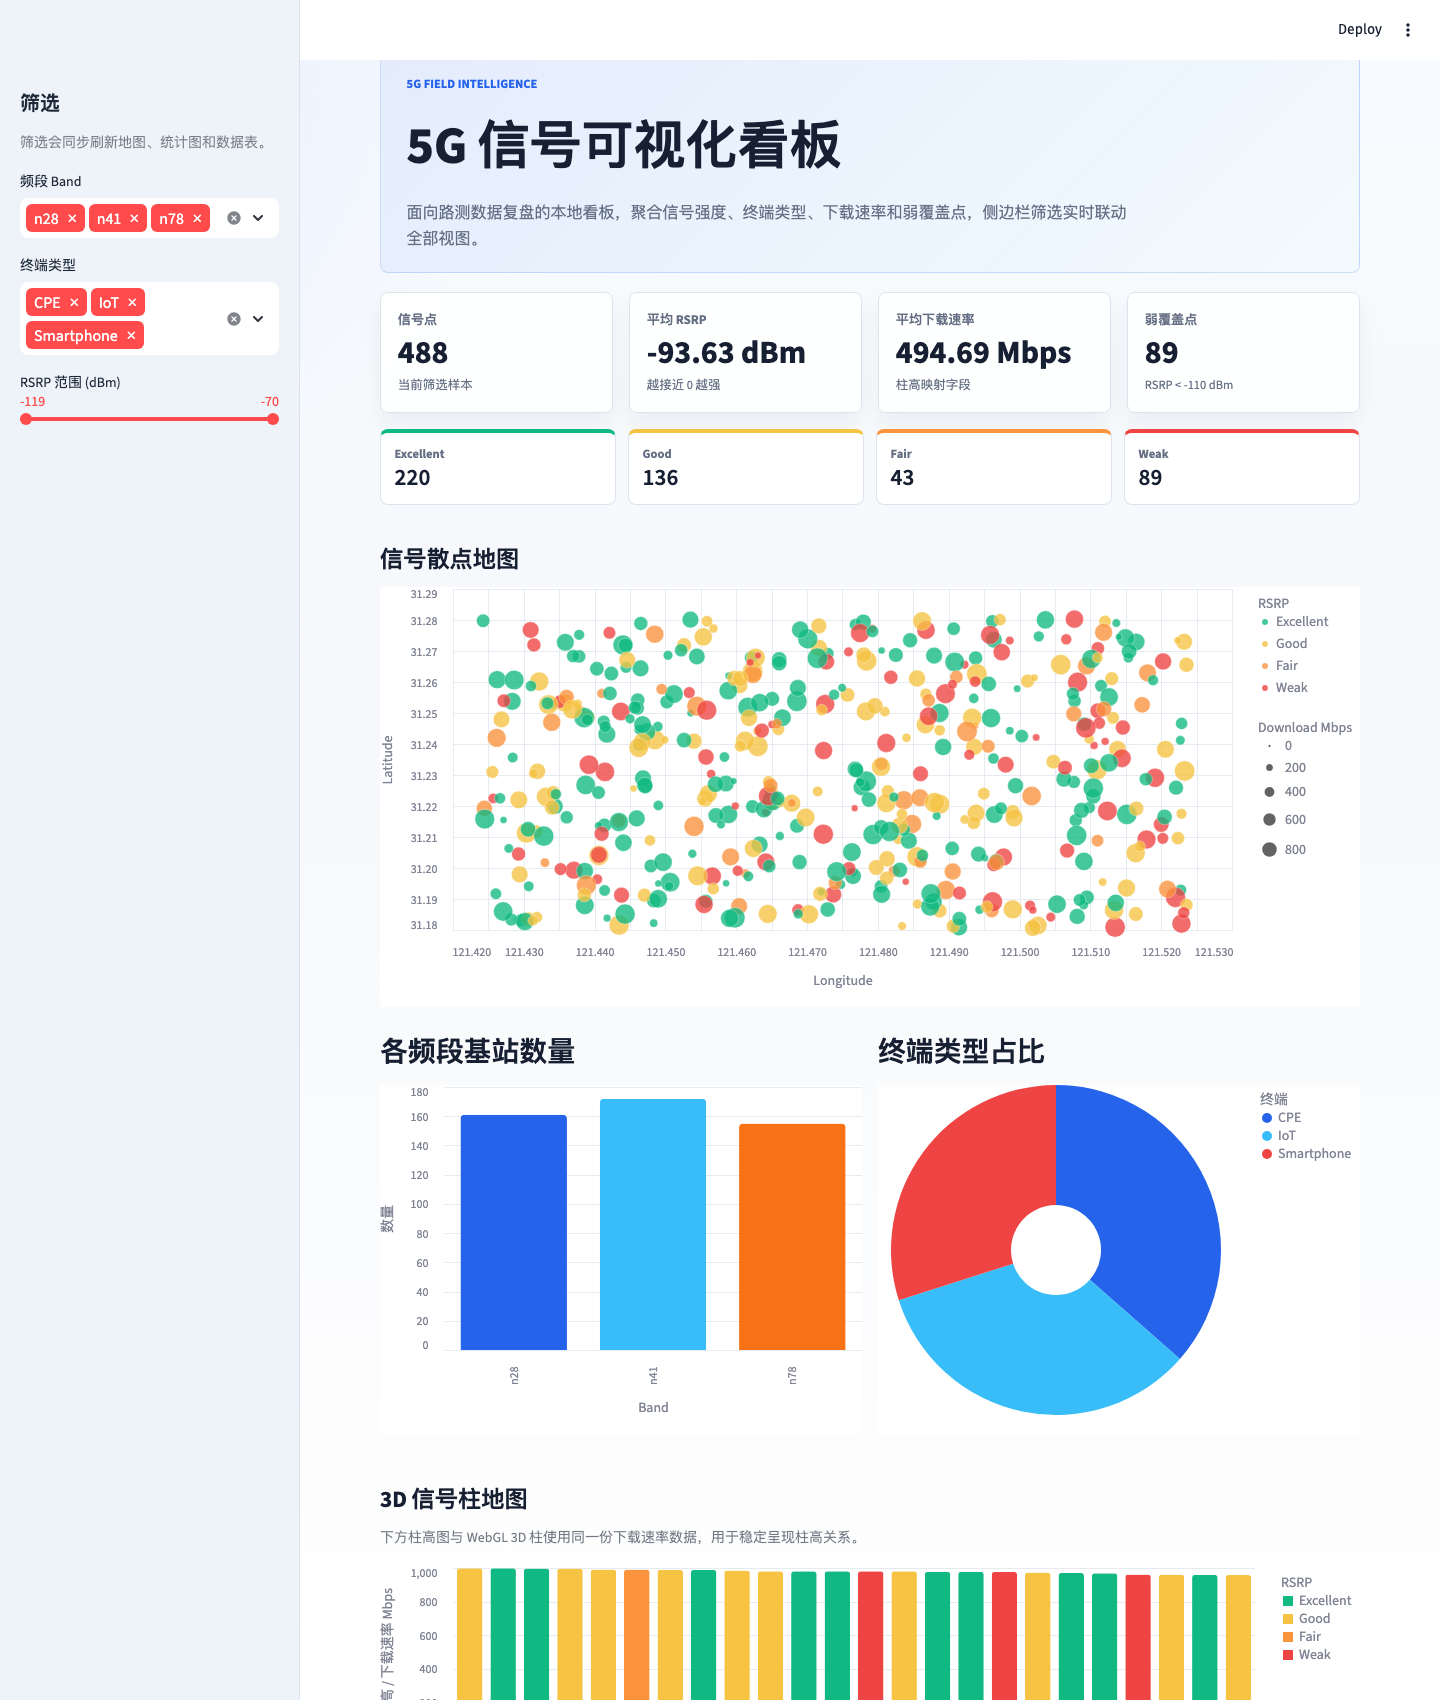
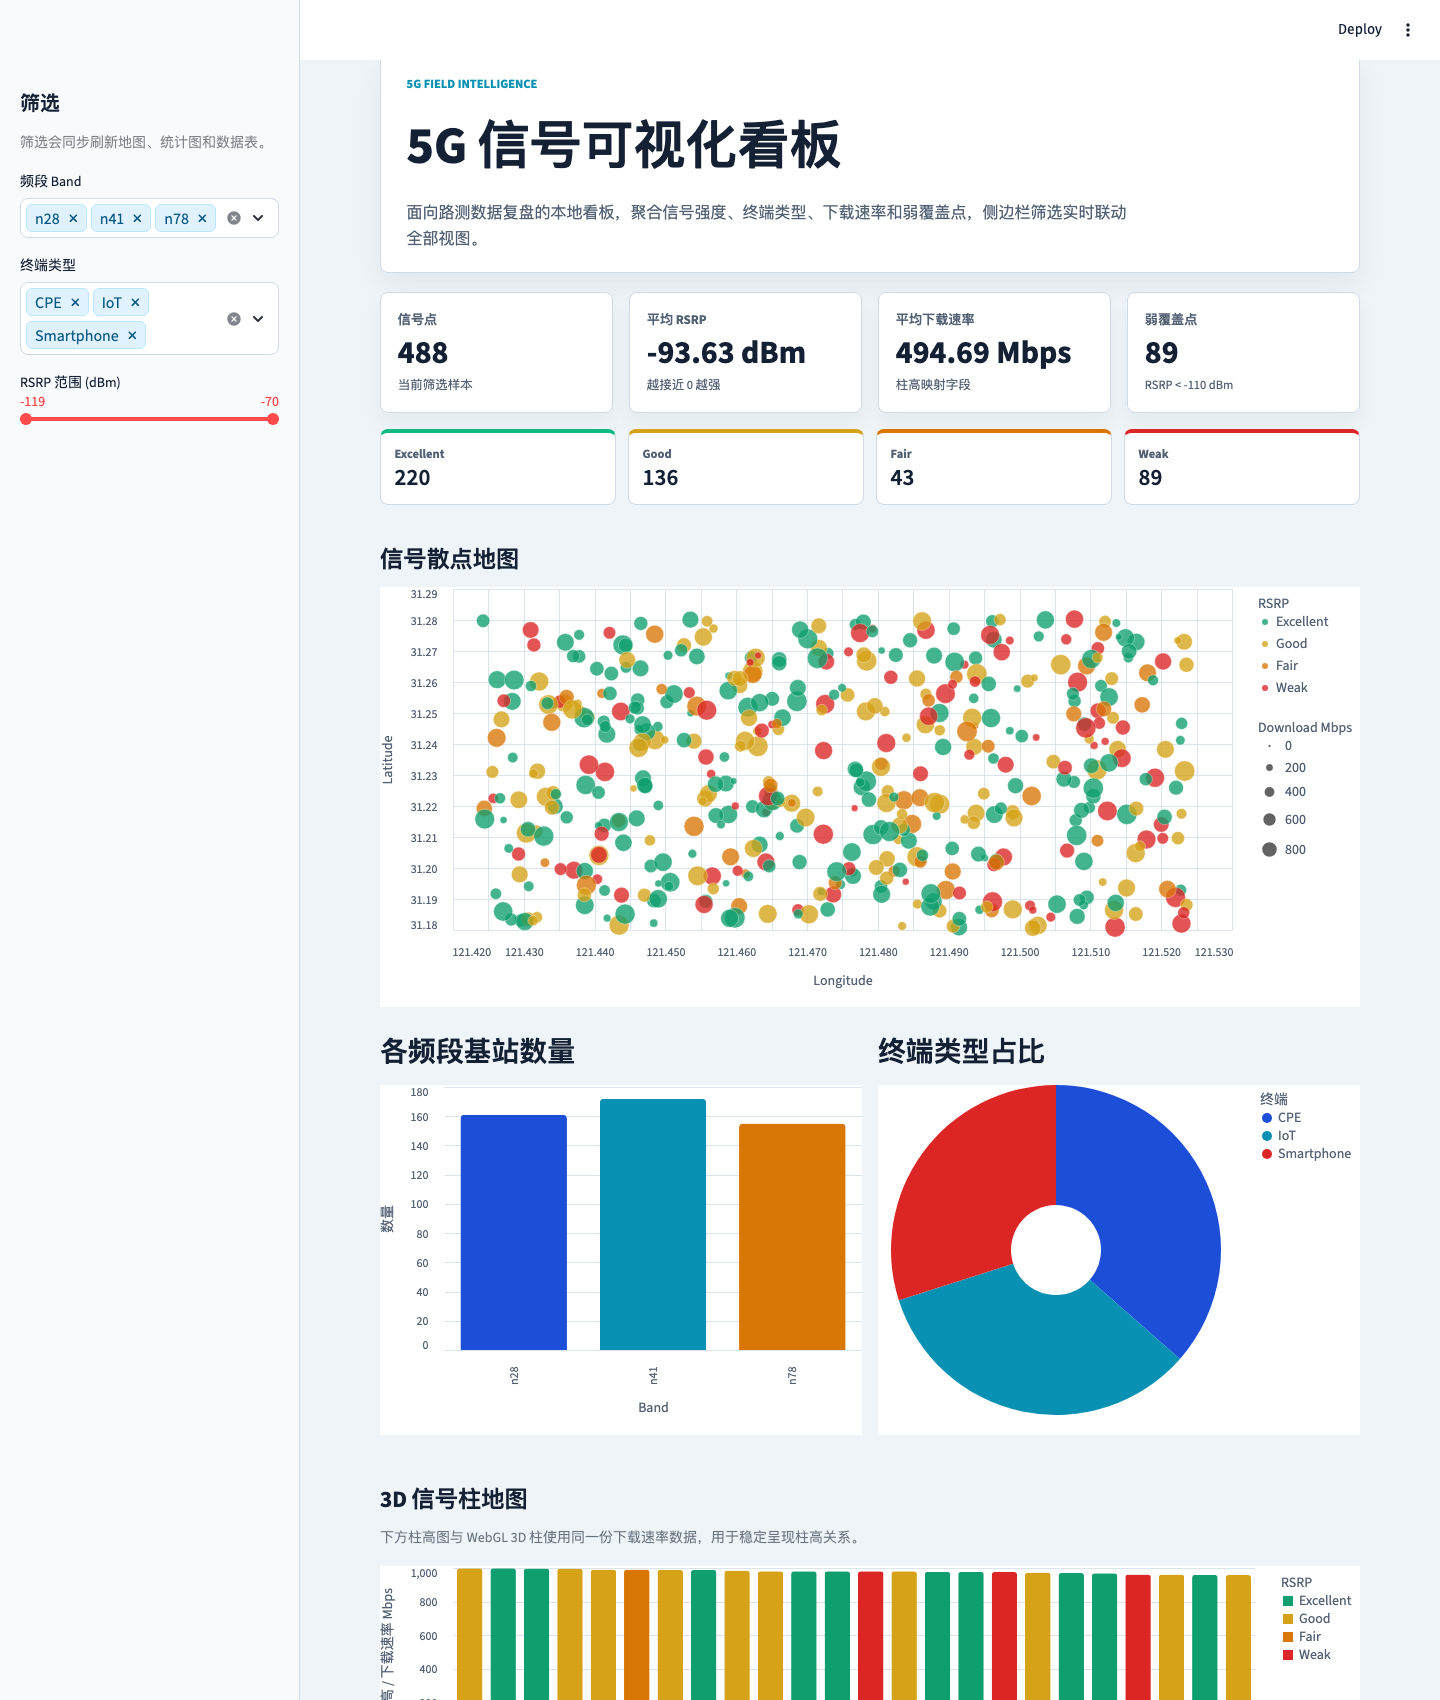
Unify dashboard visual system

diff --git a/app.py b/app.py
@@ -30,44 +30,56 @@ DISPLAY_COLUMNS = [
 ]
 
 QUALITY_DOMAIN = ["Excellent", "Good", "Fair", "Weak"]
-QUALITY_RANGE = ["#10b981", "#f6c343", "#fb923c", "#ef4444"]
-BAND_RANGE = ["#2563eb", "#38bdf8", "#f97316", "#7c3aed", "#14b8a6"]
-TERMINAL_RANGE = ["#2563eb", "#38bdf8", "#ef4444", "#10b981", "#a855f7"]
+QUALITY_RANGE = ["#0f9f6e", "#d6a318", "#d97706", "#dc2626"]
+BAND_RANGE = ["#1d4ed8", "#0891b2", "#d97706", "#6d28d9", "#0f766e"]
+TERMINAL_RANGE = ["#1d4ed8", "#0891b2", "#dc2626", "#0f766e", "#6d28d9"]
+CHART_AXIS_COLOR = "#536174"
+CHART_GRID_COLOR = "#d9e4ef"
+CHART_PANEL_COLOR = "#ffffff"
 
 APP_CSS = """
 <style>
 @import url('https://fonts.googleapis.com/css2?family=Fira+Sans:wght@400;500;600;700&display=swap');
 
 :root {
-    --bg: #f6f8fb;
+    --bg: #eef4f7;
     --panel: #ffffff;
-    --ink: #172033;
-    --muted: #667085;
-    --line: #dbe3ef;
-    --blue: #2563eb;
-    --cyan: #0ea5e9;
-    --amber: #f59e0b;
-    --red: #ef4444;
+    --ink: #142033;
+    --muted: #536174;
+    --line: #cfdae7;
+    --blue: #1d4ed8;
+    --cyan: #0891b2;
+    --amber: #d97706;
+    --red: #dc2626;
 }
 
 .stApp {
-    background:
-        radial-gradient(circle at top left, rgba(37, 99, 235, 0.10), transparent 34rem),
-        linear-gradient(180deg, #f8fbff 0%, var(--bg) 42%, #ffffff 100%);
+    background: var(--bg);
     color: var(--ink);
     font-family: "Fira Sans", -apple-system, BlinkMacSystemFont, "Segoe UI", sans-serif;
 }
 
 [data-testid="stSidebar"] {
-    background: #eef3f9;
+    background: #f8fafc;
     border-right: 1px solid var(--line);
 }
 
 [data-testid="stSidebar"] h2,
 [data-testid="stSidebar"] h3,
 [data-testid="stSidebar"] label {
-    color: #1d2939;
+    color: var(--ink);
     font-weight: 700;
+}
+
+[data-baseweb="select"] > div {
+    border-color: var(--line);
+    background-color: #ffffff;
+}
+
+[data-baseweb="tag"] {
+    background-color: #e0f2fe !important;
+    border: 1px solid #bae6fd !important;
+    color: #075985 !important;
 }
 
 .block-container {
@@ -76,17 +88,16 @@ APP_CSS = """
 }
 
 .signal-hero {
-    border: 1px solid rgba(37, 99, 235, 0.18);
+    border: 1px solid var(--line);
     border-radius: 8px;
-    background:
-        linear-gradient(135deg, rgba(37, 99, 235, 0.12), rgba(14, 165, 233, 0.05)),
-        #ffffff;
+    background: #ffffff;
     padding: 1.45rem 1.6rem 1.25rem;
     margin-bottom: 1.2rem;
+    box-shadow: 0 14px 30px rgba(20, 32, 51, 0.06);
 }
 
 .signal-eyebrow {
-    color: var(--blue);
+    color: var(--cyan);
     font-size: 0.78rem;
     font-weight: 700;
     letter-spacing: 0;
@@ -113,9 +124,9 @@ APP_CSS = """
     min-height: 112px;
     border: 1px solid var(--line);
     border-radius: 8px;
-    background: rgba(255, 255, 255, 0.92);
+    background: var(--panel);
     padding: 1rem 1.05rem;
-    box-shadow: 0 12px 24px rgba(15, 23, 42, 0.05);
+    box-shadow: 0 10px 22px rgba(20, 32, 51, 0.05);
 }
 
 .metric-label {
@@ -175,9 +186,9 @@ APP_CSS = """
 }
 
 .quality-excellent { border-top: 4px solid #10b981; }
-.quality-good { border-top: 4px solid #f6c343; }
-.quality-fair { border-top: 4px solid #fb923c; }
-.quality-weak { border-top: 4px solid #ef4444; }
+.quality-good { border-top: 4px solid #d6a318; }
+.quality-fair { border-top: 4px solid #d97706; }
+.quality-weak { border-top: 4px solid #dc2626; }
 
 [data-testid="stMetric"] {
     background: #ffffff;
@@ -296,6 +307,21 @@ def summarize_quality_counts(data: pd.DataFrame) -> dict[str, int]:
     return {quality: int(counts.get(quality, 0)) for quality in QUALITY_DOMAIN}
 
 
+def style_chart(chart: alt.Chart) -> alt.Chart:
+    return (
+        chart.properties(background=CHART_PANEL_COLOR)
+        .configure_view(stroke=CHART_GRID_COLOR)
+        .configure_axis(
+            labelColor=CHART_AXIS_COLOR,
+            titleColor=CHART_AXIS_COLOR,
+            gridColor=CHART_GRID_COLOR,
+            domainColor=CHART_GRID_COLOR,
+            tickColor=CHART_GRID_COLOR,
+        )
+        .configure_legend(labelColor=CHART_AXIS_COLOR, titleColor=CHART_AXIS_COLOR)
+    )
+
+
 @st.cache_data
 def load_signal_data(path: str) -> pd.DataFrame:
     try:
@@ -378,7 +404,7 @@ def render_column_fallback(data: pd.DataFrame) -> None:
     if top_cells.empty:
         return
 
-    st.altair_chart(
+    chart = (
         alt.Chart(top_cells)
         .mark_bar(cornerRadiusTopLeft=3, cornerRadiusTopRight=3)
         .encode(
@@ -394,9 +420,9 @@ def render_column_fallback(data: pd.DataFrame) -> None:
             ),
             tooltip=DISPLAY_COLUMNS,
         )
-        .properties(height=260),
-        width="stretch",
+        .properties(height=260)
     )
+    st.altair_chart(style_chart(chart), width="stretch")
 
 
 def render_signal_scatter_map(data: pd.DataFrame) -> None:
@@ -404,7 +430,7 @@ def render_signal_scatter_map(data: pd.DataFrame) -> None:
         st.warning("没有可绘制的经纬度数据。请检查 CSV 是否为空或字段是否缺失。")
         return
 
-    st.altair_chart(
+    chart = (
         alt.Chart(data)
         .mark_circle(opacity=0.78, stroke="white", strokeWidth=0.4)
         .encode(
@@ -425,9 +451,9 @@ def render_signal_scatter_map(data: pd.DataFrame) -> None:
             ),
             tooltip=DISPLAY_COLUMNS,
         )
-        .properties(height=420),
-        width="stretch",
+        .properties(height=420)
     )
+    st.altair_chart(style_chart(chart), width="stretch")
 
 
 def render_charts(data: pd.DataFrame) -> None:
@@ -443,7 +469,7 @@ def render_charts(data: pd.DataFrame) -> None:
 
     with left:
         st.subheader("各频段基站数量")
-        st.altair_chart(
+        chart = (
             alt.Chart(band_counts)
             .mark_bar(cornerRadiusTopLeft=4, cornerRadiusTopRight=4)
             .encode(
@@ -455,13 +481,13 @@ def render_charts(data: pd.DataFrame) -> None:
                     scale=alt.Scale(range=BAND_RANGE),
                 ),
                 tooltip=["Band", "Count"],
-            ),
-            width="stretch",
+            )
         )
+        st.altair_chart(style_chart(chart), width="stretch")
 
     with right:
         st.subheader("终端类型占比")
-        st.altair_chart(
+        chart = (
             alt.Chart(terminal_counts)
             .mark_arc(innerRadius=45)
             .encode(
@@ -472,9 +498,9 @@ def render_charts(data: pd.DataFrame) -> None:
                     scale=alt.Scale(range=TERMINAL_RANGE),
                 ),
                 tooltip=["TerminalType", "Count"],
-            ),
-            width="stretch",
+            )
         )
+        st.altair_chart(style_chart(chart), width="stretch")
 
 
 def render_page_chrome() -> None:

diff --git a/README.md b/README.md
@@ -7,7 +7,7 @@
 - 读取 CSV 路测数据，并对缺失字段、空 CSV、脏数值做安全降级。
 - 提供经纬度 RSRP 散点地图；在 WebGL 可用时提供 3D 柱状地图，柱高随 `Download_Mbps` 变化，并附同数据源的柱高降级图。
 - 地图颜色按 `RSRP_dBm` 分级：强信号为绿色，弱覆盖为红色。
-- 提供信号质量分布、核心 KPI 卡片和统一的专业数据看板视觉样式。
+- 提供信号质量分布、核心 KPI 卡片和统一的浅色专业数据看板视觉样式。
 - 侧边栏支持按频段、终端类型、RSRP 范围联动筛选。
 - 展示信号点数量、平均 RSRP、平均下载速率、弱覆盖点数量。
 - 展示各频段基站数量和终端类型占比。
